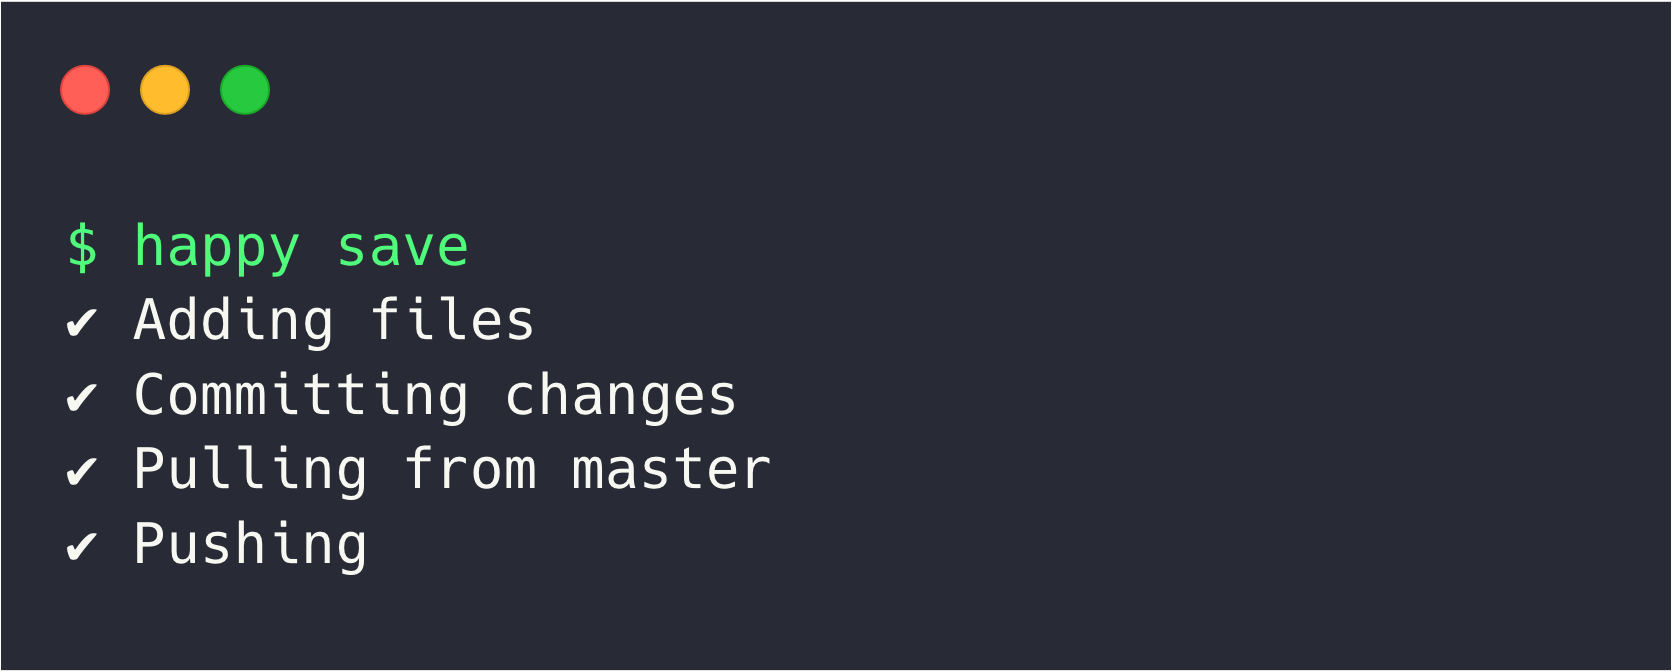
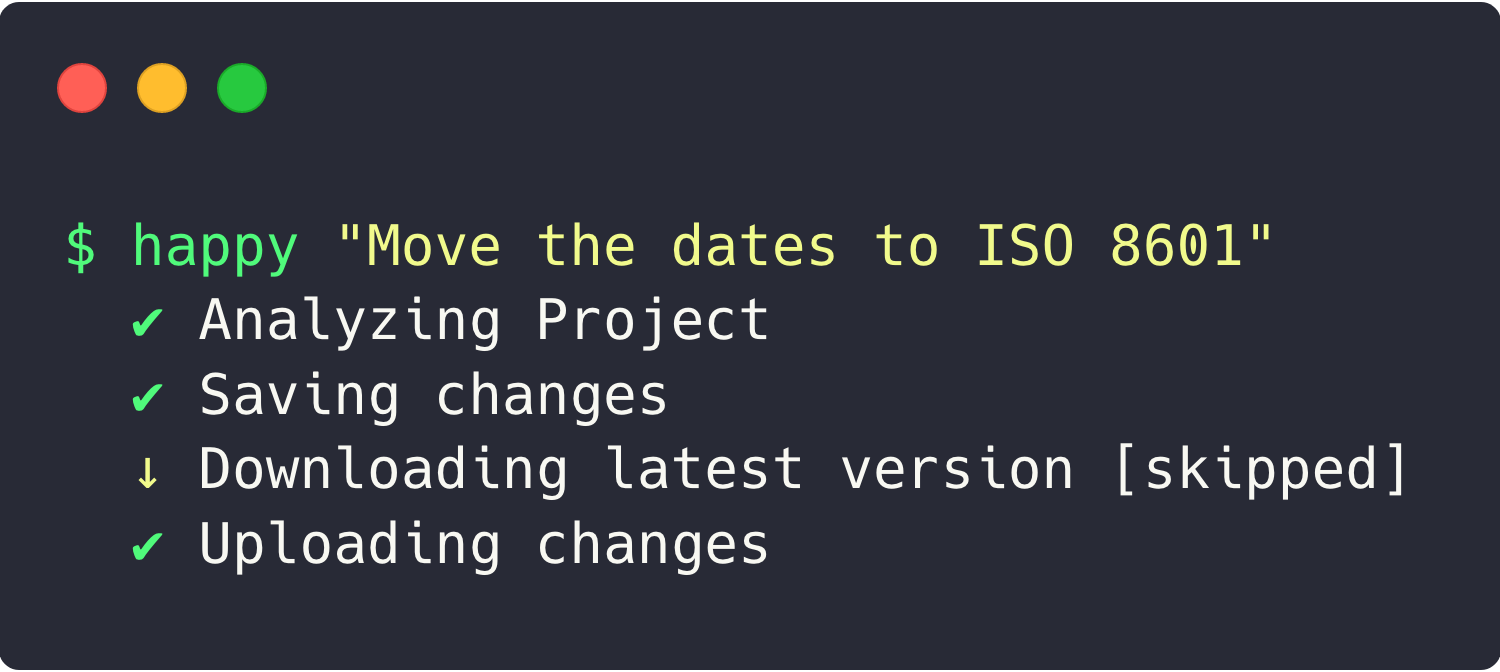
Updated docs

diff --git a/README.md b/README.md
@@ -2,8 +2,9 @@
 
 Happy save and don't worry about anything. Simplify your day-to-day Git workflow:
 
-```
-happy save
+```bash
+$ happy
+$ happy "Move the dates to ISO 8601"
 ```
 
 <img width="400px" src="https://raw.githubusercontent.com/franciscop/happy/master/img/happy.png" alt="screenshot" />
@@ -11,9 +12,9 @@ happy save
 Basically, does these:
 
 ```bash
-happy save
+happy
 
-# Same as
+# Similar to
 
 git add . -A
 git commit -m "Saved on ${time()}"
@@ -24,12 +25,12 @@ git push
 Run it with a string to use it as a commit string:
 
 ```bash
-happy save "Added that new cool feature"
+happy "Added that new cool feature"
 
-# Same as
+# Similar to
 
 git add . -A
-git commit -m "Added that new cool featture"
+git commit -m "Added that new cool feature"
 git pull origin master
 git push
 ```
